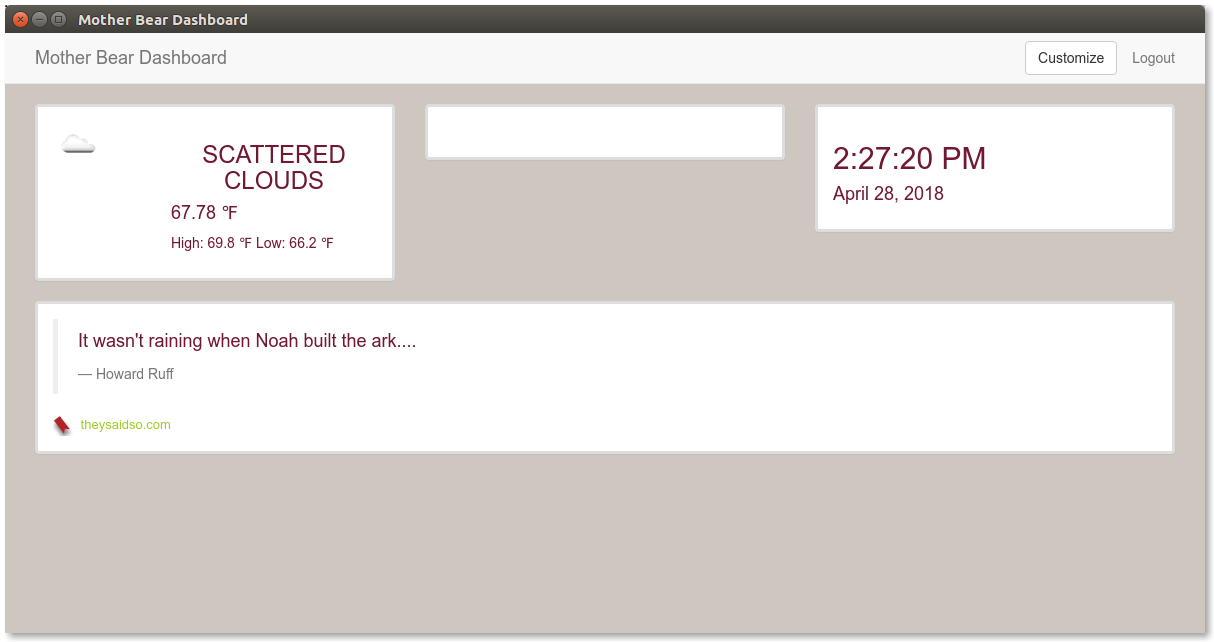
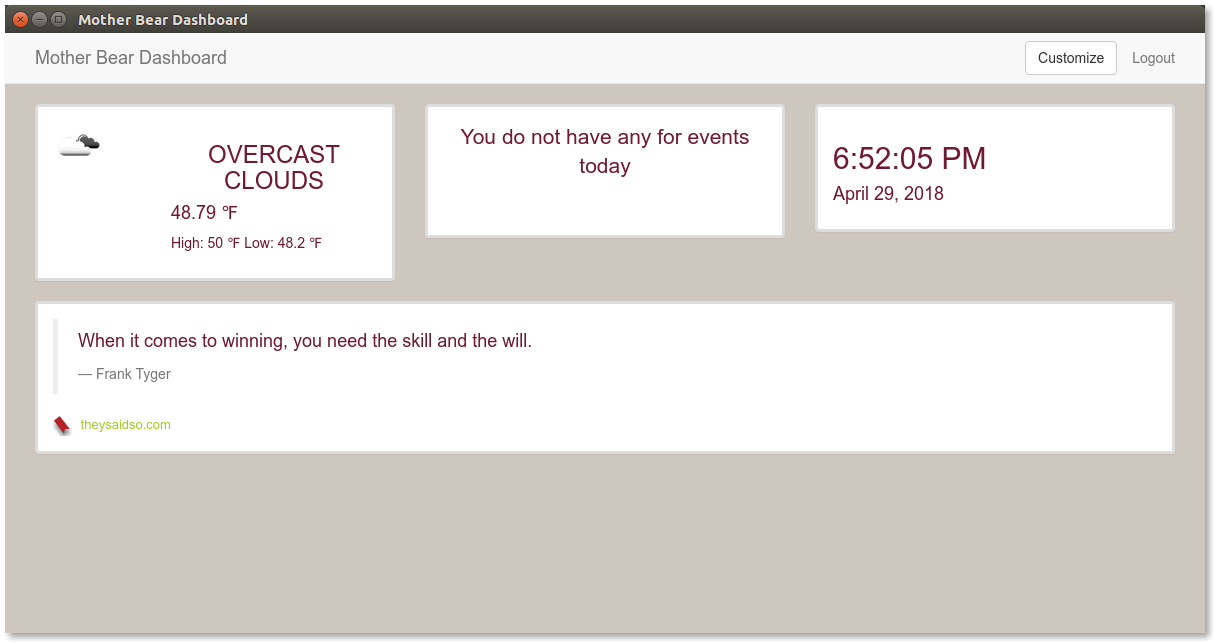
v1.1.0

diff --git a/resources/js/app/login.controller.js b/resources/js/app/login.controller.js
@@ -31,14 +31,21 @@
     function failedLogin (res) {
       console.log('login failed.')
       console.log(res);
-      vm.message = res.data.message;
       vm.loggedIn = false;
+
+      if(res.data && res.data.message)
+        vm.message = res.data.message;
+      else
+        vm.message = "There was a problem logging in.";
     }
 
     function failedLogout (res) {
       console.log('logout failed.')
       console.log(res);
-      vm.message = res.data.message;
+      if(res.data && res.data.message)
+        vm.message = res.data.message;
+      else
+        vm.message = "There was a problem logging out.";
     }
 
     vm.loginUser = function() {

diff --git a/resources/js/app/schedule-panel/schedule-panel.html b/resources/js/app/schedule-panel/schedule-panel.html
@@ -1,6 +1,7 @@
 <div class="panel panel-default">
   <div class="panel-body">
     <table class="table">
+      <p ng-show="($ctrl.response.events | calendar:$ctrl.view).length == 0" class="lead text-center">You do not have any for events today</p>
       <tbody>
         <tr ng-repeat="event in $ctrl.response.events | calendar:$ctrl.view">
           <td>{{event.title}}</td>
@@ -17,8 +18,6 @@
         </tr>
       </tbody>
     </table>
-    <div ng-show="$ctrl.response === undefined">
-      Loading...
-    </div>
+    <div ng-show="$ctrl.response === undefined"></div>
   </div>
 </div>

diff --git a/resources/index.html b/resources/index.html
@@ -27,7 +27,7 @@
             <div class="panel-heading">
               <h3 class="panel-title">Authenicate</h3>
             </div>
-            <div class="alert alert-warning" ng-show="loginctl.message">
+            <div class="alert alert-warning text-center" ng-show="loginctl.message">
               {{loginctl.message}}
             </div>
             <form class="panel-body" method="get" ng-submit="loginctl.loginUser()">

diff --git a/resources/js/app/preference-modal/preference-modal.component.js b/resources/js/app/preference-modal/preference-modal.component.js
@@ -27,13 +27,13 @@
     }, {
       id: 2,
       label: 'Cool Blue',
-      colors: ['#455bdf', '#ffffff', '#453d35']
+      colors: ['#9ca3ce', '#2f2f2f', '#453d35']
     }, {
       id: 3,
       label: 'Rad Colors',
       colors: ['#D36582', '#FFEECF', '#2B59C3']
     }, {
-      id: 3,
+      id: 4,
       label: 'Poppin Orange',
       colors: ['#F18805', '#ffffff', '#353531']
     }];
